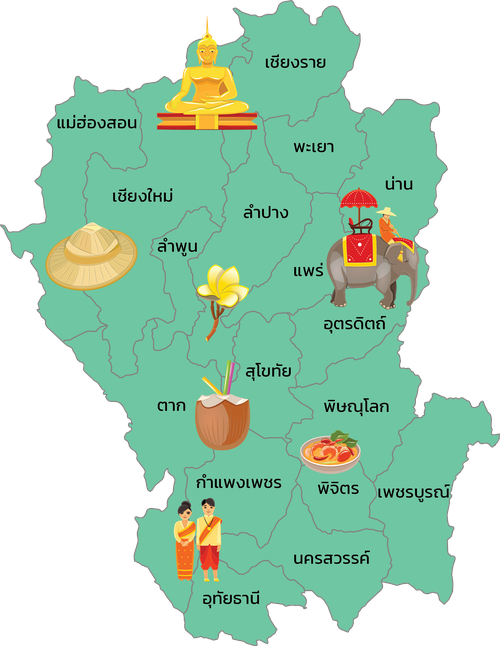
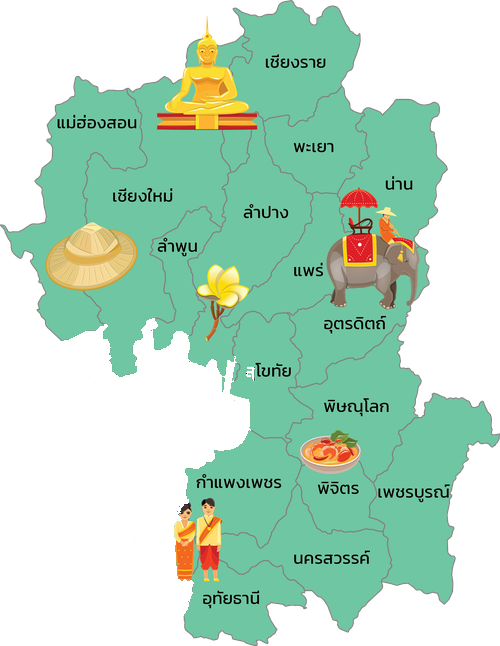
Match the contact page to the client's layout and split the network map into six regions

Changed region(s): [[0.12, 0.4954, 0.51, 0.9598]]

diff --git a/web/src/components/netmap-hit.ts b/web/src/components/netmap-hit.ts
@@ -1,0 +1,11 @@
+// พื้นที่กดของชิ้นแผนที่แต่ละภาค (สร้างจากขอบภาพ public/images/map/region-*.png)
+// ใช้กำหนดจุดกดให้ตรงตัวภาค เพราะกรอบสี่เหลี่ยมของแต่ละชิ้นซ้อนทับกัน
+export const PIECE_HIT: Record<number, string> = {
+  1: 'polygon(57.2% 0%,58.6% 0%,59.4% 1.1%,60.6% 1.2%,62% 2.3%,62.4% 3.7%,63.2% 3.7%,63.2% 2.8%,65.2% 1.1%,67.6% 0.9%,70% 4.6%,71.4% 5.4%,72.2% 5.1%,70.8% 10.5%,68.4% 12.7%,70.2% 16.9%,72.2% 17.5%,72.8% 16.7%,74.2% 16.6%,76.6% 17.6%,79.4% 15.2%,82.6% 15.3%,84% 16.1%,87% 15.6%,88% 16.3%,88% 17.6%,86.4% 18.6%,86.2% 20.1%,87% 20.4%,87.4% 24%,89.4% 25.5%,89.6% 26.5%,87.4% 28.6%,87% 31.9%,87.8% 32.7%,83% 36.8%,84.2% 38.2%,85.8% 38.9%,85.2% 40.6%,86% 41.2%,86% 44.1%,82.2% 47.2%,81.4% 50.3%,79.8% 52%,79.8% 52.6%,80.8% 52.8%,79.6% 54.5%,80% 56.7%,82.2% 57%,84.4% 58.7%,83% 62.8%,83.8% 64.6%,84.8% 64.1%,84.8% 62.2%,86% 61.9%,86.6% 60.7%,89.2% 61.6%,92.8% 61.5%,94.6% 63%,96.6% 61.9%,98.4% 64.2%,98.4% 67.2%,100% 67%,100% 68.1%,98.6% 69.3%,97.6% 68.7%,93.8% 68.9%,93.8% 71.2%,90.8% 74.5%,89.6% 80.7%,91% 81.9%,89.6% 83.6%,89.6% 84.8%,91.2% 86.8%,90.6% 92%,89% 93.7%,87.6% 92.9%,87.4% 92%,84.6% 92%,81.6% 90.4%,78.8% 90.7%,76.6% 90.2%,76.4% 91.5%,72.4% 94.1%,70.6% 97.2%,69.2% 98%,67.6% 97.4%,65% 93.2%,61.6% 91.5%,60.6% 92%,61.4% 92.6%,61% 94.4%,60% 93.8%,53.6% 93.7%,53.8% 95.2%,55.6% 97.5%,53.6% 98.9%,53.6% 99.7%,51.4% 99.2%,51.6% 100%,46.4% 99.1%,44.6% 97.8%,43.2% 99.2%,38.8% 98.9%,36.8% 97.4%,36.8% 95%,37.8% 94%,38.8% 90.1%,35.6% 89.6%,34.8% 81.3%,36.4% 80.5%,35.6% 79.6%,36.8% 78%,37.8% 77.9%,37% 72.6%,39.8% 72.6%,41.2% 71.5%,42.4% 71.5%,42.8% 69.7%,47.6% 69.2%,50.2% 66.7%,49.8% 61.8%,46% 61%,47.2% 55.1%,46.8% 56%,45.4% 55.7%,45% 58.2%,44% 57.9%,42.8% 55.6%,41.2% 56.8%,37.8% 56%,37.8% 51.9%,36.6% 51.2%,34.6% 51.7%,33.8% 53.6%,31% 54.2%,30.6% 50.9%,31.6% 50.2%,30.4% 49.2%,28.2% 50.9%,28.6% 52.3%,26.6% 53.4%,27.4% 57.6%,23.8% 58.4%,22.4% 57.6%,21.8% 55.9%,22.4% 55.4%,21.8% 55%,22% 53.1%,20.6% 52.5%,21.4% 50.2%,12.8% 52.8%,9.2% 50.8%,9% 49.7%,7.2% 48.1%,7.4% 46.9%,9% 45.2%,6% 40.7%,6.4% 39.3%,5% 39%,4.6% 39.9%,3.6% 40.1%,2.2% 39%,2% 37.5%,0% 34.7%,1.2% 34.8%,1.6% 35.8%,3.8% 35.8%,6.2% 34.5%,9% 34.2%,8.2% 29.1%,6.8% 27.9%,10.2% 24.8%,10.4% 22.9%,9.2% 22%,10.2% 21.1%,9.2% 19.3%,11% 17.8%,11% 16.3%,14.8% 14.9%,15% 11.8%,17.8% 12.4%,19.8% 13.5%,19.8% 14.2%,25.4% 13.5%,26.6% 14.1%,32.6% 11.8%,34.8% 12.8%,36.4% 12.1%,37.6% 7%,41.2% 5.1%,41.4% 2.5%,41.8% 5.3%,43.6% 7%,44.4% 7%,47% 6.3%,48.8% 5.1%,46.4% 1.2%,52.4% 2.5%,54.8% 2%,55.6% 0.6%)',
+  2: 'polygon(76.8% 3.6%,80.3% 4.4%,84.2% 4%,88.2% 5.8%,91.8% 5.8%,92.4% 7.3%,93.7% 7.8%,93.4% 12.4%,96.3% 13.1%,98.4% 17.2%,93.2% 20.3%,90.5% 19.9%,90.3% 24.3%,91.8% 25.4%,93.9% 25%,98.9% 27.6%,100% 29.9%,96.6% 30.1%,96.6% 31.8%,95.5% 31.4%,93.9% 32.1%,94.2% 34.5%,91.1% 34.7%,88.7% 36.5%,81.8% 36.7%,82.6% 39.6%,80.3% 42%,82.6% 42.5%,83.2% 43.6%,80% 46.7%,74.7% 46.2%,72.9% 45.3%,72.1% 46%,68.4% 46.5%,62.9% 46.2%,56.3% 48.2%,55.3% 49.8%,51.6% 51.3%,51.8% 51.8%,50.5% 51.3%,51.3% 47.1%,52.4% 46%,56.1% 46.2%,56.8% 42%,55.8% 42.2%,55.8% 41.1%,54.7% 41.8%,53.4% 41.6%,53.4% 37.2%,50.5% 35.8%,49.2% 34.5%,51.6% 34.3%,54.2% 32.7%,56.8% 32.7%,54.5% 32.3%,51.3% 34.1%,49.2% 34.1%,48.9% 33.4%,58.2% 26.6%,55.5% 25.9%,49.7% 27.7%,49.5% 24.5%,51.6% 23.9%,50% 23%,51.1% 22.1%,48.4% 21.5%,44.5% 18.6%,44.5% 19.5%,43.4% 19.5%,43.7% 18.6%,43.2% 19.2%,40.8% 18.8%,41.8% 19.7%,38.7% 21.2%,37.9% 19.2%,36.6% 19.5%,34.7% 17.9%,33.7% 17.9%,33.4% 17%,34.5% 16.6%,33.7% 13.1%,35% 12.8%,37.4% 13.5%,37.9% 14.4%,43.2% 15.5%,43.9% 14.4%,46.6% 15%,48.9% 12.4%,46.8% 10.4%,46.3% 8.2%,49.2% 7.7%,56.3% 8.4%,56.8% 7.1%,55.5% 6.4%,56.3% 5.5%,58.7% 5.5%,61.3% 6.8%,63.9% 10.8%,65.5% 11.1%,65.8% 12.4%,67.9% 13%,71.3% 8.6%,76.8% 5.1%)',
+  3: 'polygon(51.7% 0%,57.2% 0.8%,58.7% 2%,61.1% 2.2%,62.4% 3.5%,63.7% 2.5%,65.2% 2.5%,68% 8%,70% 10%,71.1% 13.3%,73.3% 14.9%,74.3% 17.2%,79.1% 20.5%,79.8% 20%,79.8% 20.9%,82% 23.3%,82.6% 29.4%,81.1% 32.7%,81.9% 39.7%,81.3% 42.7%,82% 43.1%,82% 45%,83.3% 45.6%,84.3% 47.9%,86.9% 49.9%,87% 52.4%,88% 53.8%,90.6% 54.2%,91.1% 55%,92.4% 54.4%,92.4% 55.2%,95% 55.8%,95.4% 56.4%,94.1% 57.3%,94.1% 58.7%,95.2% 61.3%,98.3% 61.8%,100% 63.8%,99.1% 69.3%,96.5% 70.8%,96.7% 71.6%,98.1% 71.6%,98.3% 73%,95.7% 75.5%,95.7% 76.7%,98.9% 79.3%,97.8% 80.2%,98% 81.8%,97.2% 82%,97.4% 83%,96.7% 83.8%,97% 89.4%,95.2% 92.4%,89.8% 94.3%,88.7% 96.7%,87.4% 97.3%,85.6% 95.1%,85.7% 93.3%,81.7% 92%,80.7% 92.8%,80% 92.2%,78% 92.6%,76.9% 93.9%,70.4% 93%,66.1% 94.1%,63.7% 93.7%,63.3% 94.3%,58.5% 93.3%,57.8% 92%,57.4% 92.8%,55.6% 92.6%,54.3% 93.5%,47.2% 94.7%,42.4% 98.4%,36.7% 98.6%,34.8% 99.2%,35% 100%,34.1% 100%,33.9% 98.8%,32.8% 98.6%,30.9% 98.4%,29.4% 99.2%,28.1% 98.8%,27.8% 97.8%,26.5% 99%,23.5% 96.9%,22.2% 95.7%,23% 93.5%,21.9% 93.9%,21.1% 93.2%,18.5% 94.1%,18.1% 94.9%,15.6% 92.2%,13.5% 92.4%,12.4% 91.6%,10.9% 92.4%,9.1% 90.8%,7.6% 91.2%,6.3% 89.8%,6.5% 84.5%,8.3% 85.1%,11.9% 82.2%,10.6% 77.9%,8.1% 77.1%,8.1% 73.6%,10.2% 70.1%,10% 65.9%,10.7% 63.4%,9.3% 62.2%,9.3% 59.5%,10.4% 57.7%,9.1% 54.8%,10% 51.3%,9.6% 50.3%,10.7% 47%,12.2% 45.4%,12% 44.4%,13.1% 43.8%,13% 40.9%,15.4% 40.1%,18% 41.1%,18.9% 38.9%,17.4% 38.7%,17.4% 35.2%,15.9% 32.5%,15% 33.7%,13.9% 33.7%,12.2% 31.7%,9.1% 32.1%,6.7% 30.9%,6.3% 32.5%,5.4% 32.7%,5.2% 35.2%,3.7% 35.6%,3% 34.8%,3% 33.3%,4.3% 28%,2.4% 26%,0.4% 25.6%,0% 22.3%,1.5% 20.4%,5.6% 22.5%,8.1% 19%,10.7% 17.2%,10.7% 16.2%,12.2% 15.9%,12.4% 16.4%,13.9% 15.3%,13.5% 14.7%,14.4% 14.3%,14.4% 13.3%,17.6% 12.3%,18.7% 8.6%,21.5% 9.4%,24.8% 5.3%,27.2% 5.5%,29.8% 9%,31.3% 9.2%,33% 10.8%,36.5% 10.4%,36.9% 11.9%,36.1% 13.9%,37.6% 14.5%,37.4% 13.3%,39.1% 12.5%,39.3% 10.4%,40.2% 10.4%,40.6% 11.4%,41.3% 11%,40.7% 10.4%,43.3% 9.8%,45% 10.6%,45.7% 9.6%,45.7% 7.2%,47.2% 6.5%,47.8% 4.3%,50.4% 3.7%,49.3% 2.5%,49.4% 1.2%)',
+  4: 'polygon(30.1% 0%,38.6% 1.2%,43.2% 4.8%,49.6% 2.4%,51.7% 3.3%,54.2% 2.7%,53.8% 7.2%,61.9% 11.1%,63.6% 11.1%,64% 9.6%,69.1% 11.4%,76.7% 10.5%,79.2% 10.8%,79.7% 12.6%,81.4% 12.9%,80.9% 11.7%,85.2% 10.5%,89.8% 11.4%,99.6% 10.2%,97% 15.9%,92.4% 18.3%,89.4% 24.3%,81.8% 27.3%,84.3% 30%,80.5% 31.2%,73.3% 31.2%,72.9% 32.7%,75.4% 34.5%,74.2% 34.5%,74.6% 35.7%,71.6% 34.5%,71.6% 41.7%,74.6% 46.8%,79.2% 50.5%,78% 52.9%,80.1% 57.4%,78.8% 62.2%,83.9% 63.7%,92.4% 70%,89.8% 73%,89% 80.2%,100% 94%,98.7% 97.3%,98.3% 93.1%,92.4% 88.6%,91.9% 84.4%,85.6% 80.2%,84.3% 77.8%,82.6% 78.1%,83.5% 83.5%,77.1% 79.9%,75.8% 84.4%,77.1% 85.9%,68.6% 86.5%,64% 83.2%,64% 77.8%,68.6% 76.9%,68.2% 74.5%,61.4% 71.2%,58.9% 67.6%,58.1% 69.1%,55.9% 66.7%,52.5% 67%,46.2% 61.3%,44.9% 62.2%,47% 63.4%,42.4% 62.8%,41.5% 64%,41.1% 62.5%,35.6% 62.8%,31.4% 65.2%,30.5% 64.6%,32.2% 63.4%,27.1% 64.6%,14.4% 61.9%,7.2% 62.8%,6.8% 64.6%,4.2% 64%,4.2% 62.5%,0.8% 62.8%,0.4% 59.2%,3.8% 57.7%,1.3% 54.1%,4.2% 50.8%,3.4% 48%,1.7% 47.4%,5.1% 43.8%,3.4% 39.9%,6.8% 38.1%,6.8% 34.2%,0% 34.2%,5.1% 28.8%,0.4% 26.7%,3.8% 22.8%,2.5% 21.6%,3% 17.4%,14% 16.8%,18.2% 14.1%,23.3% 13.8%,22% 10.5%,26.3% 8.4%,26.3% 6.9%,32.2% 6.3%,30.9% 3.6%,27.1% 1.5%)',
+  6: 'polygon(30.4% 0%,33.2% 1.4%,37.3% 1.4%,39.6% 0.7%,39.9% 2.5%,39.9% 3.4%,38% 3.4%,36.6% 6.8%,34.8% 7.6%,34.3% 9.4%,33.4% 9.5%,34.6% 12.6%,33.4% 13.1%,31.3% 12.8%,31.6% 14%,33.6% 14.9%,31.3% 17.1%,32% 18.7%,31.6% 21.6%,33.4% 22.3%,32.9% 23.9%,34.1% 25.7%,33.4% 27.2%,34.6% 27.9%,33.4% 28.6%,35.3% 30.4%,33.2% 31.7%,33.4% 33.3%,38.2% 34.2%,39.9% 32.6%,43.8% 31.8%,47.9% 32.4%,49.8% 37.6%,50.5% 45.1%,52.5% 46.4%,53.9% 48.7%,55.3% 48.9%,54.8% 47.1%,53.9% 46.9%,54.8% 46.6%,56.2% 47.5%,57.1% 49.6%,58.5% 50%,58.5% 51.3%,57.8% 50%,57.6% 50.7%,61.1% 64.2%,63.8% 64.4%,65.4% 65.3%,65.2% 66.5%,62.7% 68%,64.5% 70.5%,66.1% 70.9%,65.9% 71.6%,69.4% 75.2%,71.4% 75.4%,74.2% 77.2%,79.3% 77.2%,80.2% 76.4%,82.5% 76.8%,80.6% 75.9%,81.3% 75.4%,87.3% 77.2%,92.6% 83.6%,100% 88.1%,100% 91.2%,97% 93.2%,96.3% 95.9%,93.8% 98%,92.6% 98%,91.9% 97.1%,90.3% 97.7%,89.4% 95.9%,87.1% 95%,82.5% 96.6%,82.7% 97.5%,80.6% 97.3%,80.2% 98.7%,77.2% 100%,73.7% 97.3%,74.7% 95.3%,73.7% 94.1%,74% 92.6%,75.8% 91%,76.5% 88.7%,70.5% 88.8%,69.8% 85.3%,68.4% 85.1%,68.2% 84.2%,67.3% 84.7%,65.4% 85.1%,59.2% 83.5%,57.4% 80.4%,55.1% 80.4%,54.4% 85.1%,53% 84.4%,53.2% 83.5%,52.3% 84%,50.7% 82.2%,50% 82.4%,50.2% 81.3%,47.9% 79.1%,46.8% 79.1%,46.1% 78.1%,43.5% 77.2%,44% 75.5%,43.3% 74.1%,44.7% 72.5%,41% 71.9%,40.1% 69.8%,41.2% 68.9%,39.9% 69.2%,39.6% 67.8%,38.9% 69.8%,35.9% 68.7%,35.5% 66%,34.3% 65.5%,34.6% 64.2%,33.2% 63.3%,33.4% 62.6%,30.6% 61.2%,29.7% 62.1%,30.6% 62.6%,30.6% 63.8%,29.5% 63.8%,30.4% 66.2%,29% 66%,27.9% 62.8%,29.5% 62.1%,28.1% 61.5%,27.6% 59.9%,29% 58.1%,26.7% 57.4%,25.6% 55.6%,24% 56.5%,23% 55.6%,21.9% 55.9%,21.2% 52%,20.5% 52.3%,20.3% 50.9%,18.4% 51.3%,19.1% 49.3%,14.3% 50.5%,15% 52.9%,14.1% 53.8%,12.9% 54%,12% 53.1%,12.2% 54.1%,14.5% 54.7%,13.6% 57%,15.4% 56.8%,15.7% 58.3%,15% 58.3%,15% 57.2%,14.1% 57.2%,14.7% 58.5%,13.6% 59%,13.6% 59.9%,12.2% 59.5%,11.5% 60.8%,10.6% 60.4%,10.4% 57.9%,9.7% 59.2%,8.8% 58.8%,9.4% 58.6%,9.4% 57.2%,7.8% 58.5%,8.3% 56.8%,10.1% 57.4%,10.4% 52.7%,12% 53.1%,10.4% 52.3%,8.5% 46.9%,9.4% 44.6%,9% 42.6%,9.9% 41.7%,9.7% 34.9%,10.6% 34.7%,11.8% 36.7%,12.7% 36.5%,11.3% 34%,12.4% 33.8%,12% 33.3%,14.3% 27.9%,16.1% 27.5%,14.7% 26.8%,15.9% 25.9%,15.4% 24.5%,16.8% 24.5%,15.7% 24.3%,15.7% 23.6%,16.8% 23.2%,15.9% 22.1%,17.5% 21.4%,20% 15.5%,20.7% 15.5%,22.4% 10.4%,21.7% 6.7%,24.9% 4.1%,27% 4%,27% 1.8%,28.8% 1.6%)',
+  7: 'polygon(19.5% 0%,25.5% 1.3%,30.7% 5.7%,36.4% 8.6%,40.7% 9.7%,40.3% 11.1%,41.1% 10.8%,42.4% 13.1%,46.3% 14.2%,48.9% 13.9%,55.8% 14.6%,56.7% 16.6%,55% 17%,55.4% 17.9%,57.1% 17.9%,60.2% 19.5%,62.3% 19.2%,63.6% 21.2%,68.8% 19.7%,67.1% 18.8%,71% 19.2%,71.9% 18.6%,71.4% 19.5%,73.2% 19.5%,73.2% 18.6%,79.7% 21.5%,84% 22.1%,82.3% 23%,84.8% 23.9%,81.4% 24.5%,81.8% 27.7%,91.3% 25.9%,95.7% 26.6%,80.5% 33.4%,81% 34.1%,84.4% 34.1%,89.6% 32.3%,93.5% 32.5%,89.2% 32.7%,84.8% 34.3%,81% 34.5%,84.4% 36.7%,87.9% 37.2%,87.9% 41.6%,90% 41.8%,91.8% 41.1%,93.5% 42%,92.2% 46.2%,86.1% 46%,83.1% 49.1%,83.1% 51.3%,85.3% 51.8%,84.8% 51.3%,88.7% 50.4%,90% 52%,94.4% 53.5%,95.7% 55.3%,88.7% 62.6%,89.6% 68.2%,91.3% 69.7%,89.6% 72.1%,91.3% 72.6%,91.3% 74.1%,82.7% 78.8%,85.3% 78.8%,85.7% 79.6%,81.8% 79.9%,84.4% 81.2%,82.3% 80.1%,85.7% 79.7%,83.5% 80.1%,85.7% 81.4%,81.8% 81.2%,81.4% 83.2%,77.9% 83.9%,72.7% 87.8%,72.3% 89.2%,78.4% 88.3%,81.8% 89.4%,75.3% 91.6%,65.8% 96.4%,66.2% 96.9%,66.7% 98.5%,61.9% 99.6%,50.6% 99.1%,45% 100%,39.8% 98.2%,47.6% 95.4%,47.2% 93.4%,48.9% 92.5%,52.8% 92.2%,55.8% 92.7%,62.3% 88%,62.3% 85.9%,68% 85%,71.9% 81.6%,69.7% 81.6%,69.3% 80.7%,68% 81.6%,64.9% 80.8%,66.7% 80.5%,68% 81%,68% 80.3%,65.4% 79.7%,68% 79.7%,68.8% 77.9%,66.2% 77.2%,67.5% 74.8%,62.8% 74.8%,64.1% 73.5%,59.7% 68.2%,61% 66.1%,51.5% 62.6%,48.5% 58.9%,48.9% 57.1%,45.5% 56%,45.9% 52.9%,50.2% 52.6%,50.6% 47.1%,48.1% 42.7%,49.4% 41.2%,45.9% 40.5%,45.9% 38.1%,41.6% 37%,41.1% 35.8%,38.5% 35%,39% 33.9%,38.1% 34.3%,37.7% 33.4%,35.5% 33.6%,36.4% 33.2%,34.6% 33.4%,30.7% 31.6%,29.4% 31.8%,27.3% 29.7%,24.7% 30.1%,24.7% 29.4%,19.9% 28.5%,20.8% 28.1%,18.6% 27.7%,16.5% 24.8%,13.9% 24.5%,13.9% 23%,6.1% 20.3%,3.5% 18.4%,3.5% 15.7%,2.6% 16.1%,3% 15.3%,1.3% 15%,2.6% 13.3%,1.7% 13.7%,0% 12.8%,0.9% 9.7%,4.3% 9.7%,6.1% 8%,11.3% 8.8%,11.3% 6.9%,14.7% 6.2%,19.9% 7.1%)',
+  8: 'polygon(46.9% 0%,50% 2%,47.4% 3.7%,48.5% 10.7%,55.7% 9.4%,57.7% 5.4%,62.9% 4.4%,66% 5.7%,65.5% 13.8%,68% 15.1%,74.7% 16.4%,78.9% 13.8%,82% 18.8%,84.5% 19.5%,85.6% 14.1%,89.2% 14.8%,90.2% 12.8%,87.1% 25.5%,96.9% 27.2%,97.9% 37.2%,91.2% 43.3%,78.9% 44.3%,77.8% 48.3%,74.7% 48.3%,71.1% 50.7%,63.9% 50.7%,66% 62.1%,63.4% 62.4%,60.3% 65.8%,62.4% 67.8%,58.2% 69.5%,58.2% 73.5%,60.3% 87.6%,68.6% 88.6%,65.5% 98%,62.9% 100%,58.2% 97.7%,47.9% 88.9%,48.5% 87.6%,44.8% 83.9%,37.1% 81.2%,39.7% 70.8%,37.6% 66.8%,42.3% 66.8%,44.8% 63.8%,53.1% 64.4%,57.7% 57.7%,58.2% 53.7%,54.1% 51.3%,52.6% 54.7%,46.9% 58.4%,44.3% 58.1%,42.8% 51%,38.7% 47.7%,38.7% 45.3%,32.5% 40.9%,33% 38.6%,36.1% 37.6%,33.5% 31.5%,29.9% 28.5%,23.2% 27.5%,21.6% 24.2%,11.3% 17.8%,11.3% 15.4%,7.7% 14.1%,5.7% 10.4%,0% 8.1%,12.4% 4.4%,18% 4.4%,23.7% 2%,21.6% 7%,25.3% 8.4%,26.3% 18.1%,32% 19.8%,39.2% 18.1%,37.1% 9.1%,42.3% 6.7%,41.2% 3.7%)',
+};

diff --git a/web/src/app/(site)/contact/page.tsx b/web/src/app/(site)/contact/page.tsx
@@ -1,111 +1,49 @@
 import type { Metadata } from 'next';
 import Link from 'next/link';
 
-import { ContactForm } from '@/components/ContactForm';
 import { Icon } from '@/components/Icon';
 import { CONTACT, SOCIAL } from '@/components/nav';
-import { PageHero, SectionHead } from '@/components/PageHero';
-import { getLibraries } from '@/lib/content';
 
 export const metadata: Metadata = {
   title: 'ติดต่อเรา',
-  description: 'ติดต่อโครงการห้องสมุดอาเซียน กรมอาเซียน กระทรวงการต่างประเทศ เพื่อสอบถามข้อมูล ขอศึกษาดูงาน หรือจัดกิจกรรมร่วมกัน',
+  description: 'ที่อยู่ แผนที่ เบอร์โทรศัพท์ และช่องทางติดต่อโครงการห้องสมุดอาเซียน กรมอาเซียน กระทรวงการต่างประเทศ',
 };
 
-const FAQ = [
-  {
-    q: 'ประชาชนทั่วไปเข้าใช้ห้องสมุดอาเซียนได้หรือไม่',
-    a: (
-      <>
-        ได้ ห้องสมุดอาเซียนเปิดให้ชุมชนและประชาชนทั่วไปเข้าใช้บริการ เนื่องจากห้องสมุดตั้งอยู่ในโรงเรียน
-        กรุณาติดต่อโรงเรียนล่วงหน้าเพื่อสอบถามวันและเวลาเปิด ดูเบอร์โทรของแต่ละโรงเรียนได้ที่หน้า{' '}
-        <Link href="/network" style={{ color: 'var(--navy)', fontWeight: 500 }}>เครือข่ายห้องสมุด</Link>
-      </>
-    ),
-  },
-  { q: 'ขอศึกษาดูงานห้องสมุดอาเซียนต้องทำอย่างไร', a: 'กรอกแบบฟอร์มด้านบนโดยเลือกหัวข้อ “ขอศึกษาดูงาน” พร้อมระบุจำนวนผู้เข้าร่วมและช่วงเวลาที่สะดวก เจ้าหน้าที่จะประสานกับโรงเรียนให้' },
-  { q: 'โรงเรียนของเราต้องการเป็นห้องสมุดอาเซียนได้หรือไม่', a: 'โครงการจัดตั้งห้องสมุดอาเซียนจังหวัดละ 1 แห่ง ซึ่งครบทั้ง 77 จังหวัดแล้ว โรงเรียนที่สนใจร่วมกิจกรรมหรือรับสื่อความรู้เกี่ยวกับอาเซียนสามารถติดต่อกรมอาเซียนได้' },
-  {
-    q: 'ติดตามข่าวพิธีเปิดและกิจกรรมได้ที่ไหน',
-    a: (
-      <>
-        ดูได้ที่หน้า <Link href="/news" style={{ color: 'var(--navy)', fontWeight: 500 }}>ข่าวสาร</Link> และเพจ Facebook ASEAN Thailand ของกรมอาเซียน
-      </>
-    ),
-  },
-];
+const MAP_EMBED =
+  'https://www.google.com/maps/embed?pb=!1m18!1m12!1m3!1d3875.2624071987907!2d100.52265621414314!3d13.763042900742548!2m3!1f0!2f0!3f0!3m2!1i1024!2i768!4f13.1!3m3!1m2!1s0x30e2994beb8d7399%3A0x3af06b6c03b3fef4!2z4LiB4Lij4Liw4LiX4Lij4Lin4LiH4LiB4Liy4Lij4LiV4LmI4Liy4LiH4Lib4Lij4Liw4LmA4LiX4Lio!5e0!3m2!1sth!2sth!4v1605342378523!5m2!1sth!2sth';
 
-export default async function ContactPage() {
-  const libraries = await getLibraries();
-  const provinces = [...new Set(libraries.map((l) => l.province))].sort((a, b) => a.localeCompare(b, 'th'));
-
+export default function ContactPage() {
   return (
-    <>
-      <PageHero
-        tint
-        tag="ติดต่อเรา"
-        tagIcon="phone"
-        title="ติดต่อโครงการห้องสมุดอาเซียน"
-        lead="สอบถามข้อมูลโครงการ ขอศึกษาดูงาน หรือเสนอจัดกิจกรรมส่งเสริมความรู้เกี่ยวกับอาเซียน"
-        crumbs={[{ label: 'ติดต่อ' }]}
-      />
-      <section className="page-body tint">
-        <div className="container contact-grid">
-          <div className="c-cards">
-            <div className="c-card">
-              <div className="ic"><Icon name="pin" /></div>
-              <div><small>ที่อยู่</small><b>{CONTACT.org}<br />{CONTACT.address}</b></div>
-            </div>
-            <div className="c-card">
-              <div className="ic"><Icon name="phone" /></div>
-              <div>
-                <small>โทรศัพท์</small><b><a href={CONTACT.tel}>{CONTACT.phone}</a></b>
-                <small style={{ marginTop: 4 }}>{CONTACT.hours}</small>
-              </div>
-            </div>
-            <div className="c-card">
-              <div className="ic"><Icon name="globe" /></div>
-              <div>
-                <small>เว็บไซต์และโซเชียล</small><b>{CONTACT.website}</b>
-                <div className="share" style={{ marginTop: 10, paddingTop: 0, border: 0 }}>
-                  <a href={SOCIAL.facebook} aria-label="Facebook ASEAN Thailand"><Icon name="fb" /></a>
-                  <a href={SOCIAL.x} aria-label="X ASEAN_THAILAND"><Icon name="x" /></a>
-                  <a href={SOCIAL.instagram} aria-label="Instagram aseanthailand"><Icon name="ig" /></a>
-                </div>
-              </div>
-            </div>
-            <div className="map">
-              <div>
-                <div className="pinbig"><Icon name="pin" /></div>
-                <b>กระทรวงการต่างประเทศ ถนนศรีอยุธยา</b>
-                <br />
-                <a
-                  className="link-more"
-                  style={{ marginTop: 12 }}
-                  href={`https://maps.google.com/?q=${encodeURIComponent('กระทรวงการต่างประเทศ ถนนศรีอยุธยา')}`}
-                >
-                  เปิดใน Google Maps <Icon name="arrow" />
-                </a>
-              </div>
-            </div>
-          </div>
-          <ContactForm provinces={provinces} />
-        </div>
-      </section>
-
-      <section className="section">
-        <div className="container">
-          <SectionHead tag="คำถามที่พบบ่อย" icon="bulb" title="ก่อนติดต่อ ลองดูคำตอบเหล่านี้" />
-          <div className="faq">
-            {FAQ.map((f, i) => (
-              <details key={f.q} open={i === 0}>
-                <summary>{f.q} <Icon name="chev-r" /></summary>
-                <p>{f.a}</p>
-              </details>
-            ))}
+    <section className="contact-page">
+      <div className="container">
+        <nav className="crumb" aria-label="breadcrumb">
+          <Link href="/">หน้าแรก</Link>
+          <Icon name="chev-r" />
+          <span aria-current="page">ติดต่อเรา</span>
+        </nav>
+        <h1>ติดต่อเรา</h1>
+        <iframe
+          className="contact-map"
+          src={MAP_EMBED}
+          title="แผนที่กระทรวงการต่างประเทศ ถนนศรีอยุธยา"
+          loading="lazy"
+          referrerPolicy="no-referrer-when-downgrade"
+          allowFullScreen
+        />
+        <div className="contact-info">
+          <Icon name="pin" />
+          <div>
+            <address>ที่อยู่ {CONTACT.address}</address>
+            <p><b>โทรศัพท์</b> <a href={CONTACT.tel}>{CONTACT.phone}</a></p>
+            <p><b>Website</b> <a href={`https://${CONTACT.website}`} target="_blank" rel="noopener">{CONTACT.website}</a></p>
+            <ul>
+              <li><a href={SOCIAL.facebook} target="_blank" rel="noopener"><span className="soc fb"><Icon name="fb" /></span>: ASEAN Thailand</a></li>
+              <li><a href={SOCIAL.x} target="_blank" rel="noopener"><span className="soc x"><Icon name="x" /></span>: ASEAN_THAILAND</a></li>
+              <li><a href={SOCIAL.instagram} target="_blank" rel="noopener"><span className="soc ig"><Icon name="ig" /></span>: aseanthailand</a></li>
+            </ul>
           </div>
         </div>
-      </section>
-    </>
+      </div>
+    </section>
   );
 }

diff --git a/web/src/app/globals.css b/web/src/app/globals.css
@@ -468,7 +468,8 @@ button{font:inherit;cursor:pointer;border:0;background:none;color:inherit}
 .map-hint{display:flex;gap:8px;align-items:center;font-size:14px;color:var(--text-2)}
 .map-hint .icon{color:var(--gold)}
 .netmap{position:relative;width:100%;aspect-ratio:500/900}
-.netmap .piece{position:absolute;display:block;padding:0;background:none;border:0;cursor:pointer;line-height:0}
+.netmap .piece{position:absolute;display:block;padding:0;background:none;border:0;line-height:0;pointer-events:none}
+.netmap .piece .hit{position:absolute;inset:0;pointer-events:auto;cursor:pointer}
 .netmap .piece img{width:100%;height:auto;transition:opacity .15s}
 .netmap .piece .hl{position:absolute;inset:0;opacity:0}
 .netmap .piece:hover .hl,.netmap .piece:focus-visible .hl,.netmap .piece.on .hl{opacity:1}
@@ -485,6 +486,8 @@ button{font:inherit;cursor:pointer;border:0;background:none;color:inherit}
 .region.r-north{background:var(--blue-50);color:var(--navy)}
 .region.r-northeast{background:var(--gold-50);color:#8A5D00}
 .region.r-central{background:var(--green-50);color:#0B7A66}
+.region.r-east{background:#F1EAF3;color:#75497F}
+.region.r-west{background:#FDEFE3;color:#A04E16}
 .region.r-south{background:#E7EEF8;color:var(--blue)}
 .libs{display:grid;grid-template-columns:repeat(3,1fr);gap:16px}
 .lib{background:#fff;border:1px solid var(--line);border-radius:var(--r-lg);padding:20px;display:flex;flex-direction:column;gap:10px;transition:all .2s var(--ease)}
@@ -578,6 +581,25 @@ button{font:inherit;cursor:pointer;border:0;background:none;color:inherit}
 .who b{font-size:15px;font-weight:500}
 
 /* ---- Contact ---- */
+.contact-page{padding:24px 0 72px}
+.contact-page h1{position:absolute;width:1px;height:1px;overflow:hidden;clip-path:inset(50%);white-space:nowrap}
+.contact-page .crumb{color:var(--text-3);margin-bottom:16px;font-size:15px}
+.contact-page .crumb a:hover{color:var(--navy)}
+.contact-page .crumb [aria-current]{color:var(--navy)}
+.contact-map{display:block;width:100%;height:400px;border:0;background:var(--blue-50)}
+.contact-info{display:grid;grid-template-columns:auto minmax(0,1fr);gap:24px;width:fit-content;max-width:520px;margin:48px auto 0;font-size:18px;color:var(--text)}
+.contact-info>.icon{color:#E3001B;font-size:38px;margin-top:6px}
+.contact-info address{font-style:normal;font-weight:600;line-height:1.5;font-size:20px;margin-bottom:24px}
+.contact-info b{font-weight:600}
+.contact-info ul{display:grid;gap:6px;margin-top:6px;list-style:none;padding:0}
+.contact-info li,.contact-info p{line-height:1.6}
+.contact-info a:hover{color:var(--navy);text-decoration:underline}
+.contact-info li a{display:inline-flex;align-items:center;gap:8px}
+.contact-info .soc{width:28px;height:28px;border-radius:50%;display:grid;place-items:center;color:#fff;font-size:15px;flex:none}
+.contact-info .soc.fb{background:#3B5998}
+.contact-info .soc.x{background:#111}
+.contact-info .soc.ig{background:linear-gradient(45deg,#F58529,#DD2A7B 55%,#8134AF)}
+@media (max-width:600px){.contact-map{height:300px}.contact-info{gap:14px;font-size:16px;margin-top:32px}.contact-info address{font-size:17px}.contact-info>.icon{font-size:28px}}
 .contact-grid{display:grid;grid-template-columns:1fr 1.15fr;gap:28px;align-items:start}
 .c-cards{display:grid;gap:14px}
 .c-card{background:#fff;border-radius:var(--r-lg);padding:22px;display:flex;gap:16px;align-items:flex-start;box-shadow:var(--shadow-sm)}

diff --git a/web/src/components/NetworkMap.tsx b/web/src/components/NetworkMap.tsx
@@ -4,13 +4,17 @@ import Image from 'next/image';
 
 import type { Zone } from '@/lib/types';
 
+import { PIECE_HIT } from './netmap-hit';
+
 // แผนที่ภาคจากหน้า “เครือข่ายห้องสมุดอาเซียน” ของเว็บเดิม: ตำแหน่งชิ้นแผนที่อิงพื้นที่ 500×900
-// ภาคกลางกับภาคตะวันออกเป็นคนละชิ้น แต่เว็บนี้รวมเป็นภาคเดียว (zoneOf)
+// ภาคตะวันตกตัดออกมาจากชิ้นภาคเหนือ (ตาก) และชิ้นภาคกลาง (กาญจนบุรี ราชบุรี เพชรบุรี ประจวบคีรีขันธ์)
 const PIECES: { id: number; zone: Zone; label: string; x: number; y: number; w: number; h: number }[] = [
   { id: 1, zone: 'north', label: 'ภาคเหนือ', x: 0, y: 0, w: 250, h: 323 },
   { id: 3, zone: 'northeast', label: 'ภาคตะวันออกเฉียงเหนือ', x: 199, y: 118, w: 270, h: 255.5 },
   { id: 2, zone: 'central', label: 'ภาคกลาง', x: 45, y: 280, w: 190, h: 274 },
-  { id: 4, zone: 'central', label: 'ภาคตะวันออก', x: 197, y: 351, w: 118, h: 166.5 },
+  { id: 4, zone: 'east', label: 'ภาคตะวันออก', x: 197, y: 351, w: 118, h: 166.5 },
+  { id: 8, zone: 'west', label: 'ภาคตะวันตก จังหวัดตาก', x: 30.5, y: 159, w: 97, h: 149 },
+  { id: 7, zone: 'west', label: 'ภาคตะวันตก กาญจนบุรี ราชบุรี เพชรบุรี และประจวบคีรีขันธ์', x: 45, y: 280, w: 115.5, h: 274 },
   { id: 6, zone: 'south', label: 'ภาคใต้', x: 34, y: 548, w: 217, h: 278 },
 ];
 
@@ -27,13 +31,14 @@ export function NetworkMap({ active, onPick }: { active: Zone | 'all'; onPick: (
           key={p.id}
           type="button"
           className={active === p.zone ? 'piece on' : 'piece'}
-          style={{ left: pct(p.x, 500), top: pct(p.y, 900), width: pct(p.w, 500), zIndex: p.id === 2 ? 1 : undefined }}
+          style={{ left: pct(p.x, 500), top: pct(p.y, 900), width: pct(p.w, 500) }}
           aria-pressed={active === p.zone}
           aria-label={`ดูห้องสมุด${p.label}`}
           onClick={() => onPick(p.zone)}
         >
           <Image src={`/images/map/region-${p.id}.png`} alt="" width={p.w * 2} height={p.h * 2} sizes="(max-width: 860px) 60vw, 240px" />
           <Image className="hl" src={`/images/map/region-${p.id}-hover.png`} alt="" width={p.w * 2} height={p.h * 2} sizes="(max-width: 860px) 60vw, 240px" />
+          <span className="hit" style={{ clipPath: PIECE_HIT[p.id] }} />
         </button>
       ))}
       <ol className="key">

diff --git a/web/src/lib/format.ts b/web/src/lib/format.ts
@@ -11,13 +11,19 @@ export function thaiDate(d: PubDate, style: 'short' | 'long' = 'short') {
 }
 
 export const ZONES: { slug: Zone; name: string; label: string; provinces: number }[] = [
-  { slug: 'north', name: 'ภาคเหนือ', label: 'ภาคเหนือ', provinces: 17 },
+  { slug: 'north', name: 'ภาคเหนือ', label: 'ภาคเหนือ', provinces: 16 },
   { slug: 'northeast', name: 'ภาคตะวันออกเฉียงเหนือ', label: 'ภาคอีสาน', provinces: 20 },
-  { slug: 'central', name: 'ภาคกลางและตะวันออก', label: 'กลางและตะวันออก', provinces: 26 },
+  { slug: 'central', name: 'ภาคกลาง', label: 'ภาคกลาง', provinces: 15 },
+  { slug: 'east', name: 'ภาคตะวันออก', label: 'ภาคตะวันออก', provinces: 7 },
+  { slug: 'west', name: 'ภาคตะวันตก', label: 'ภาคตะวันตก', provinces: 5 },
   { slug: 'south', name: 'ภาคใต้', label: 'ภาคใต้', provinces: 14 },
 ];
 
-export const zoneOf = (l: Pick<Library, 'region'>): Zone => (l.region === 'east' ? 'central' : l.region);
+// ในฐานข้อมูลยังเก็บ 5 ภาค (จังหวัดเหล่านี้อยู่ในภาคเหนือ/ภาคกลาง) จึงแยกภาคตะวันตกตอนแสดงผล
+const WEST_PROVINCES = ['ตาก', 'กาญจนบุรี', 'ราชบุรี', 'เพชรบุรี', 'ประจวบคีรีขันธ์'];
+
+export const zoneOf = (l: Pick<Library, 'region' | 'province'>): Zone =>
+  WEST_PROVINCES.includes(l.province) ? 'west' : l.region;
 
 export const zoneName = (z: Zone) => ZONES.find((x) => x.slug === z)!.name;
 

diff --git a/web/src/lib/types.ts b/web/src/lib/types.ts
@@ -6,7 +6,7 @@ import type { IconName } from '@/components/icon-sprite';
 export type Tone = 'navy' | 'green' | 'gold' | 'blue';
 
 /** ภูมิภาคตามที่ลูกค้ายืนยัน: เหนือ 17 / อีสาน 20 / กลาง-ตะวันออก 26 / ใต้ 14 จังหวัด */
-export type Zone = 'north' | 'northeast' | 'central' | 'south';
+export type Zone = 'north' | 'northeast' | 'central' | 'east' | 'west' | 'south';
 
 /** วันที่ที่บางข่าวรู้แค่ปี */
 export type PubDate = { iso: string; precision: 'day' | 'year' };
